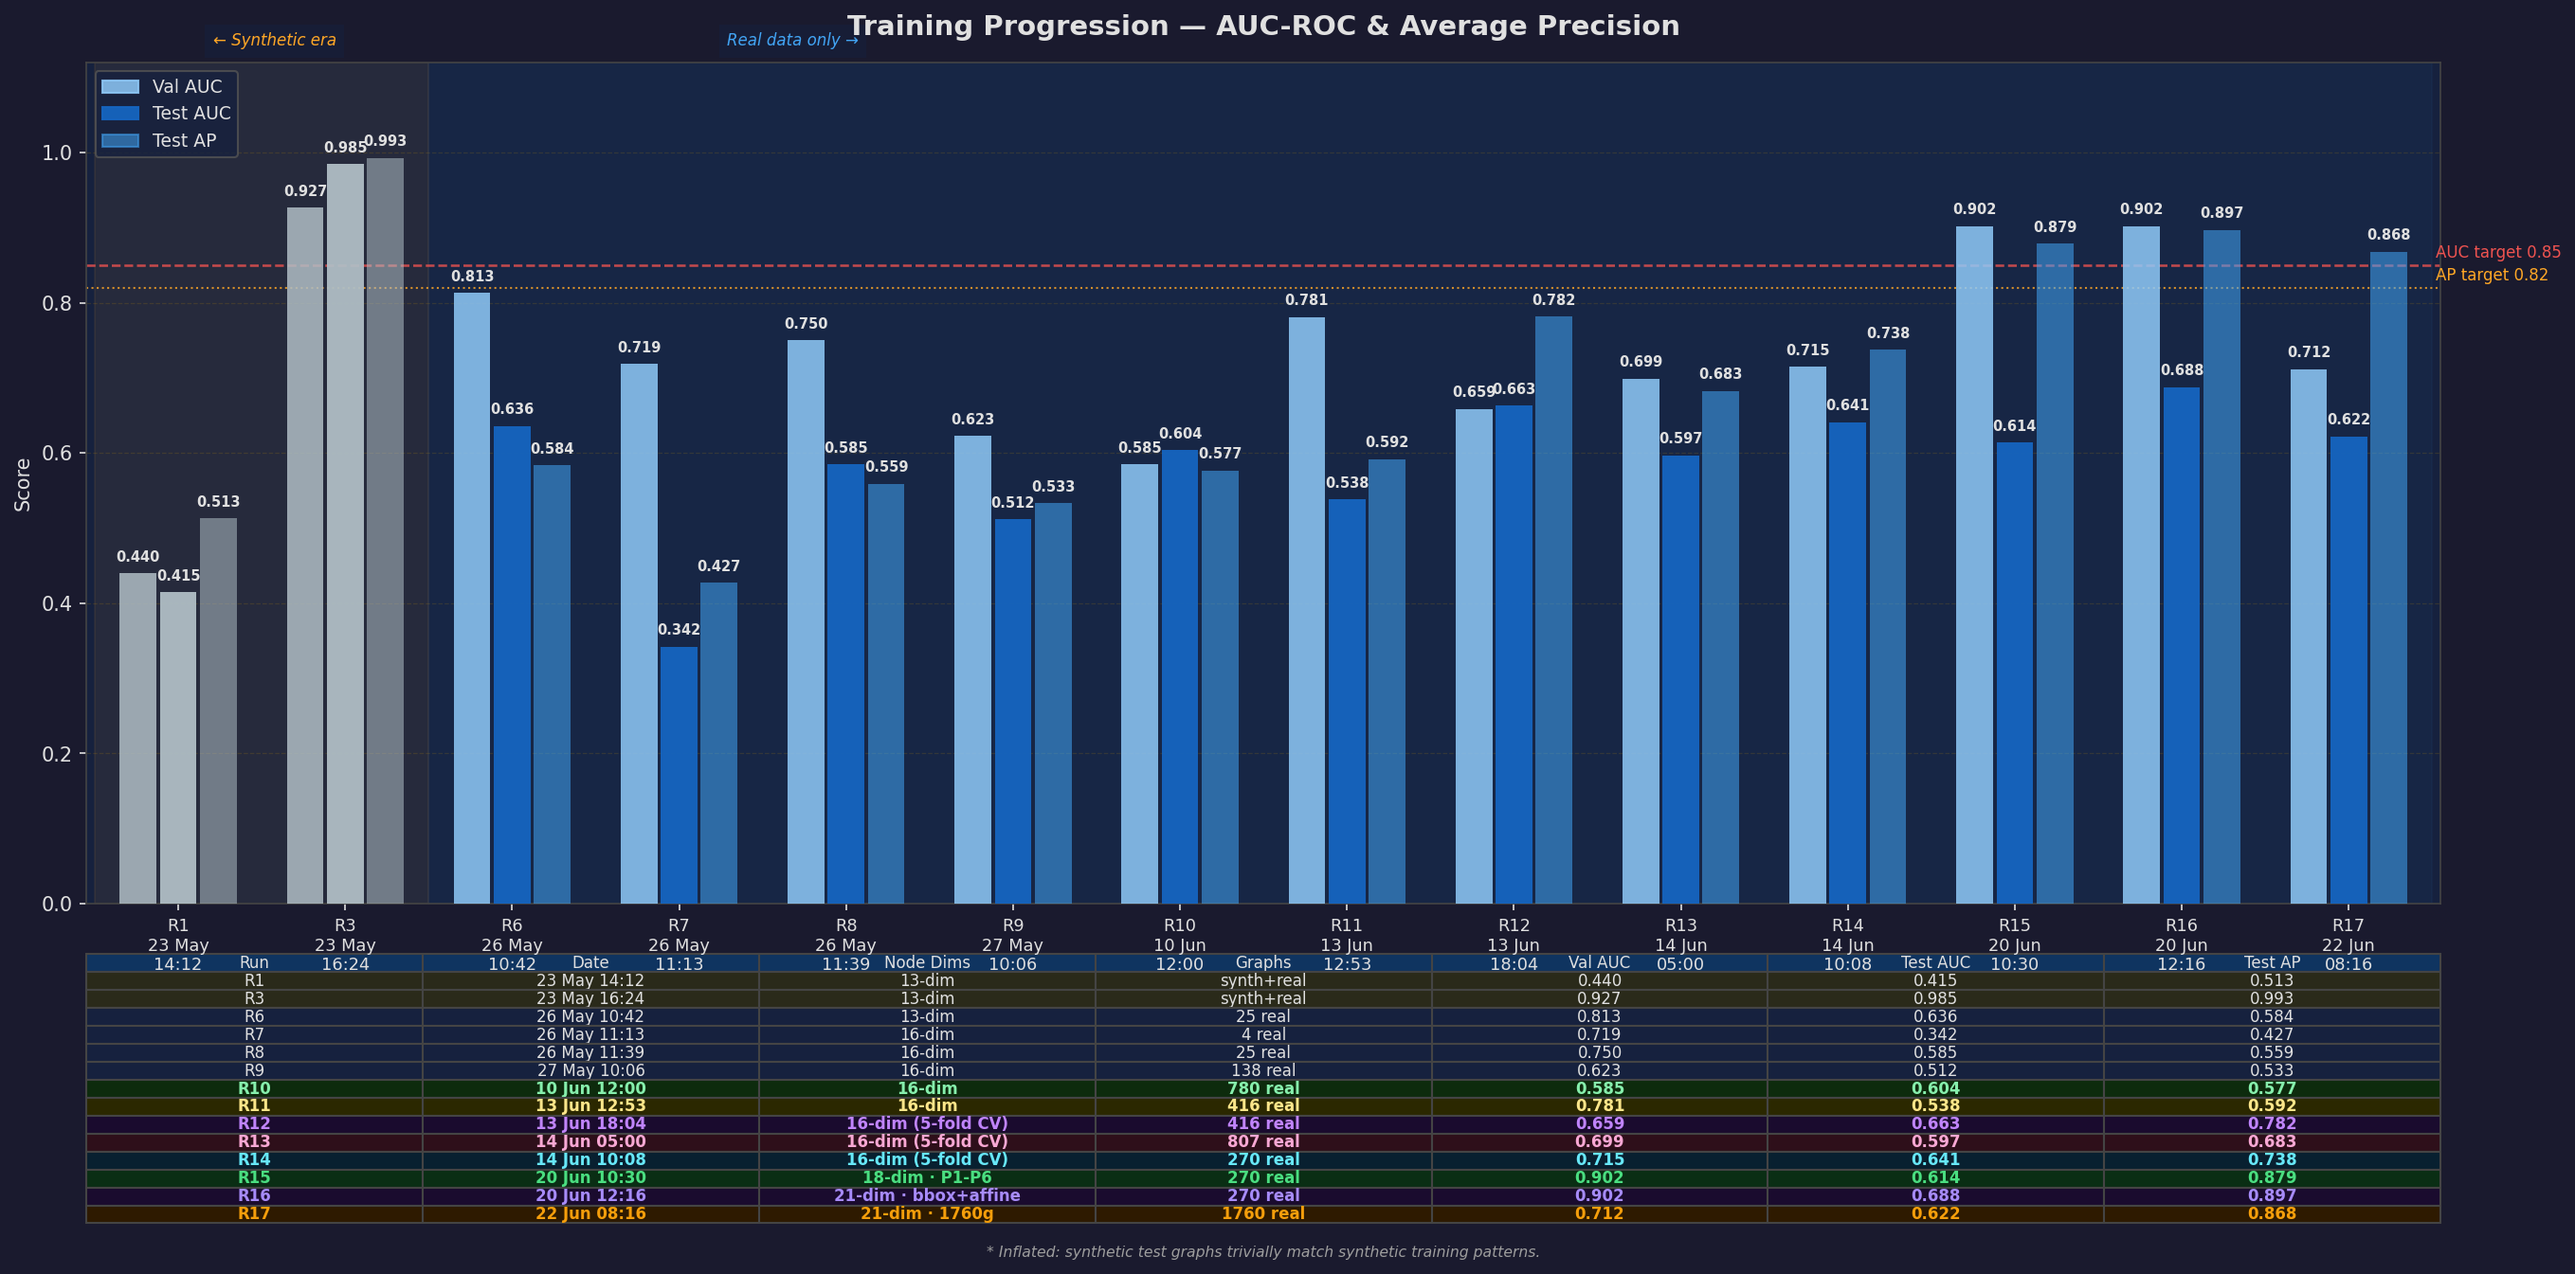
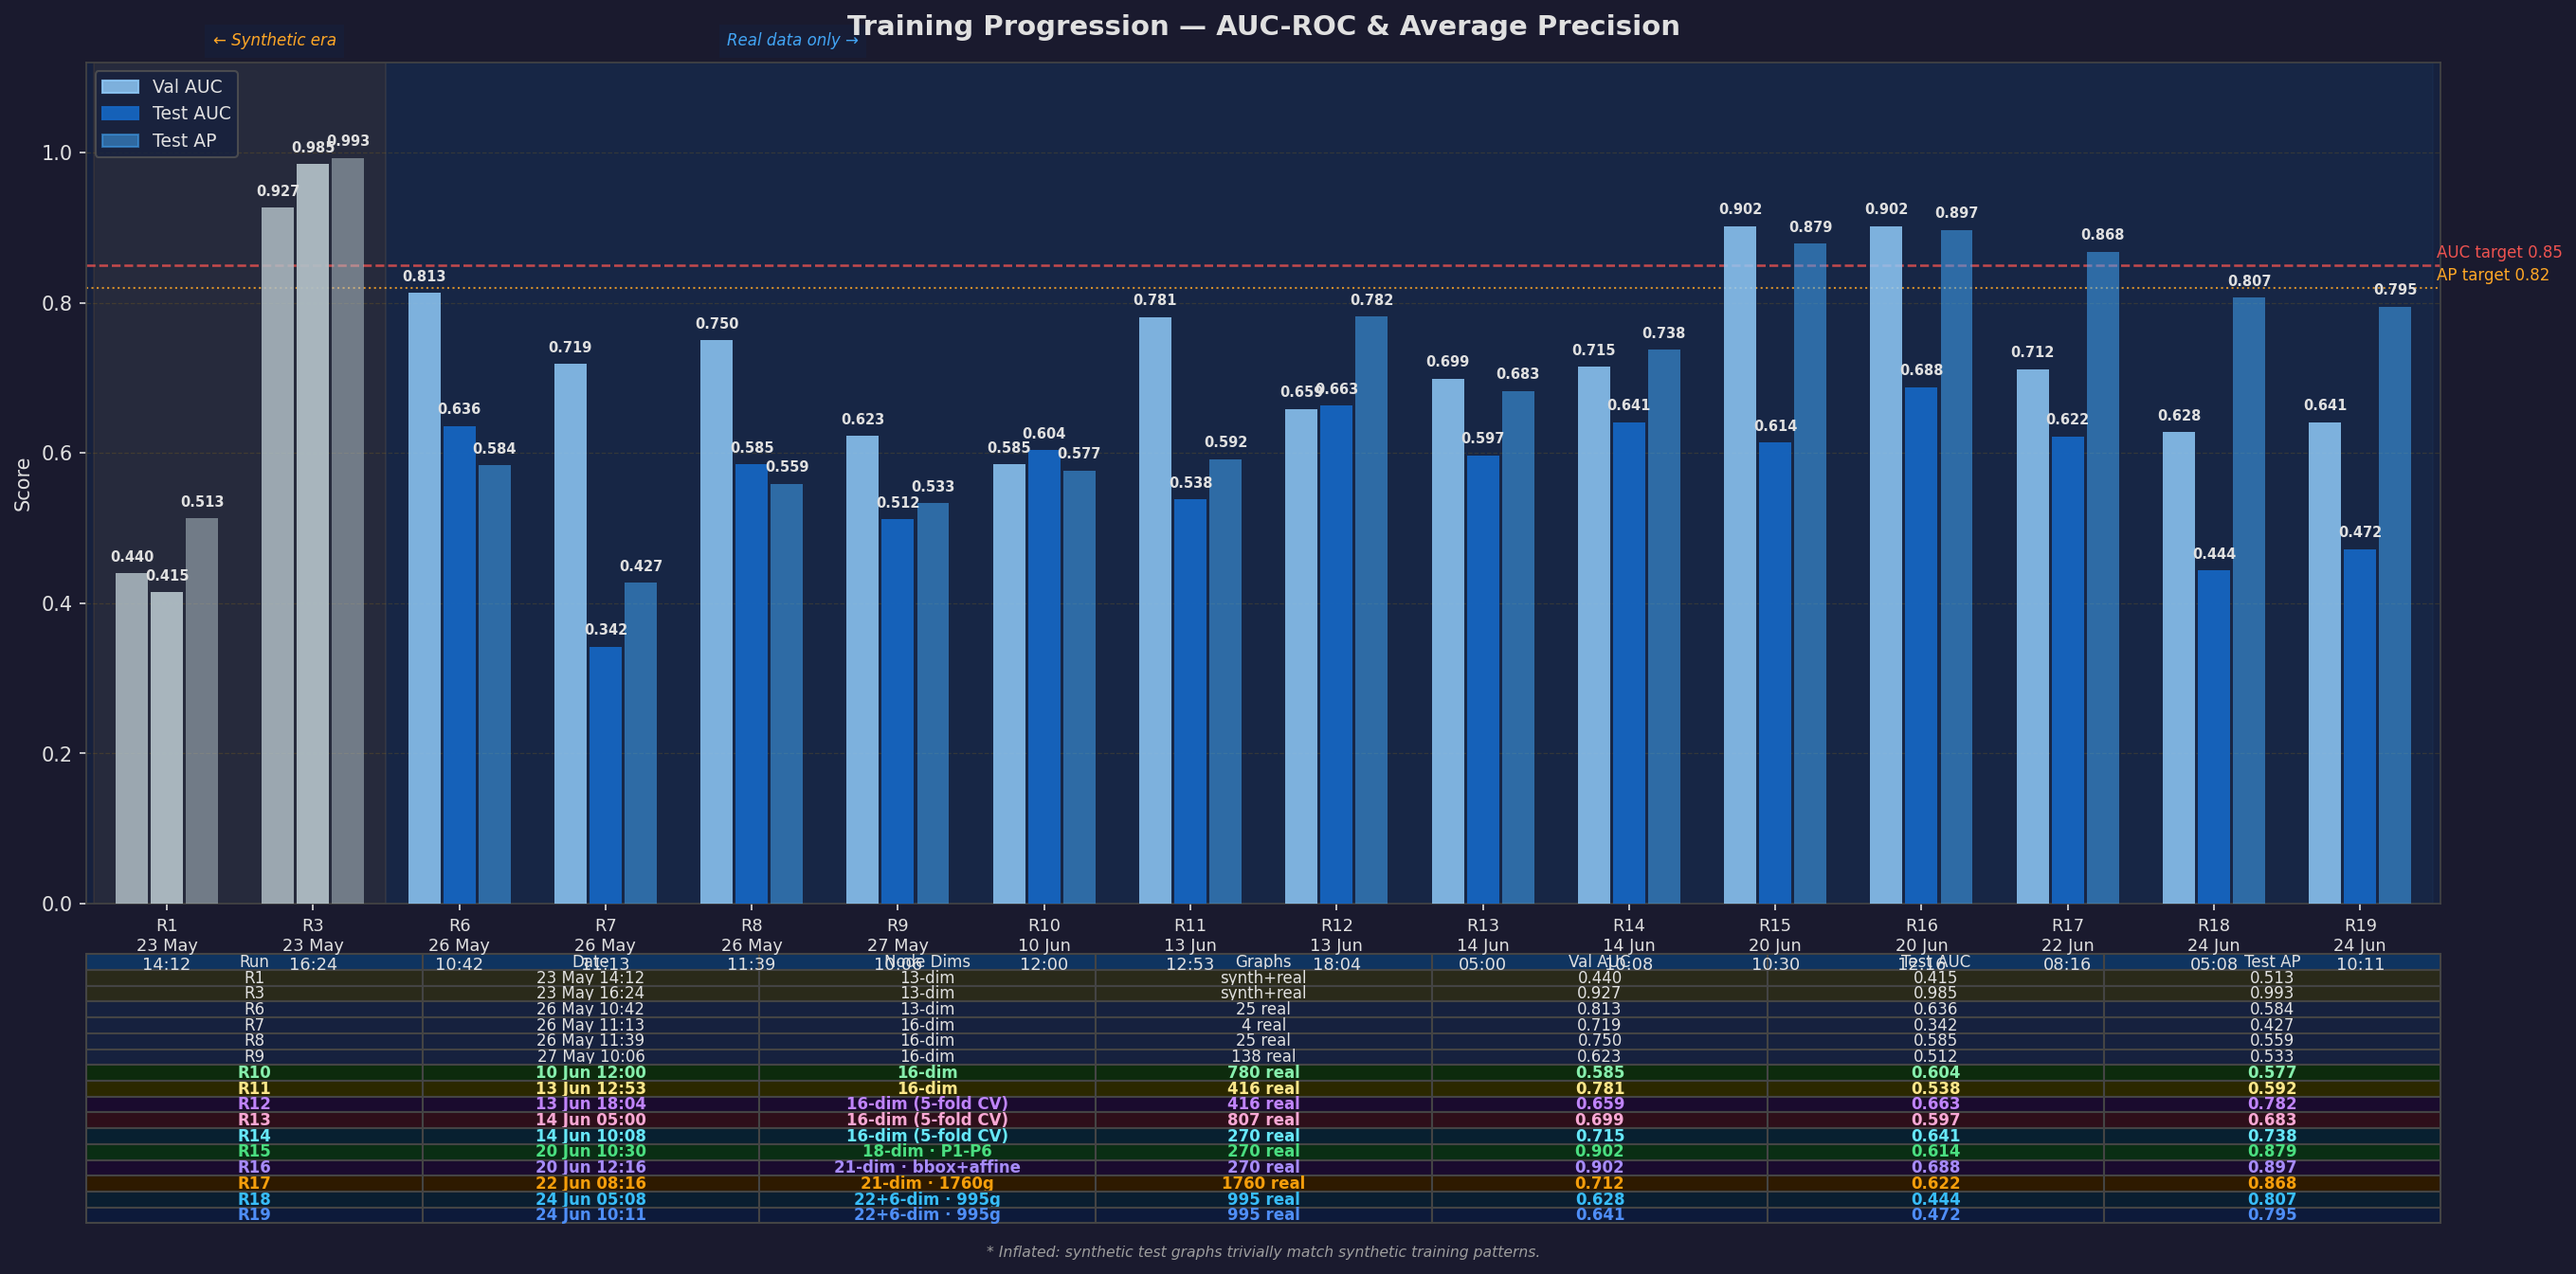
Update training history visuals with R18 and R19 results
- Regenerate training_history.png bar chart with R18+R19 bars
- Regenerate training_changelog.png with R18+R19 entries
- Add R18/R19 data, colors, and table styling to generator script
- Update README changelog image caption (R17→R19)

diff --git a/docs/generate_training_history.py b/docs/generate_training_history.py
@@ -53,6 +53,12 @@ runs = [
     dict(id="R17", date="22 Jun\n08:16", graphs="1760 real",
          note="6.5× more data: 1,760 graphs (was 270)\nDeduped 144 cross-cat folders · no-contact pre-filter\nhidden_dim 128 · edges≥10 filter\n5-Fold CV · Mean AUC=0.625±0.017 · Mean AP=0.878±0.005",
          val_auc=0.712, test_auc=0.622, test_ap=0.868, synthetic=False),
+    dict(id="R18", date="24 Jun\n05:08", graphs="995 real",
+         note="22-dim nodes + 6-dim edges · curated 996→995\nlog1p vol/SA · holes · joint types · MIN_EDGES 10→6\nZero parse failures · dataset curation study\n5-Fold CV · Mean AUC=0.483±0.056 · Mean AP=0.833±0.025",
+         val_auc=0.628, test_auc=0.444, test_ap=0.807, synthetic=False),
+    dict(id="R19", date="24 Jun\n10:11", graphs="995 real",
+         note="best_serving.pt promotion gate added\ndevice bug fix for --start-fold resume\nOnly better models deployed for inference\n5-Fold CV · Mean AUC=0.504±0.069 · Mean AP=0.835±0.028",
+         val_auc=0.641, test_auc=0.472, test_ap=0.795, synthetic=False),
 ]
 
 n   = len(runs)
@@ -77,6 +83,7 @@ log_colors = {
     "R7": "#ef9a9a", "R8": "#80cbc4", "R9": "#ce93d8",
     "R10": "#86efac", "R11": "#fde68a", "R12": "#c084fc", "R13": "#f9a8d4", "R14": "#67e8f9",
     "R15": "#4ade80", "R16": "#a78bfa", "R17": "#f59e0b",
+    "R18": "#38bdf8", "R19": "#4f8ef7",
 }
 
 # ═════════════════════════════════════════════════════════════════════════════
@@ -143,7 +150,7 @@ ax.legend(handles=legend_patches, loc="upper left", facecolor=PANEL,
 col_labels = ["Run", "Date", "Node Dims", "Graphs", "Val AUC", "Test AUC", "Test AP"]
 table_data = [
     [r["id"], r["date"].replace("\n", " "),
-     "13-dim" if r["id"] in ("R1","R3","R6") else "21-dim · 1760g" if r["id"] == "R17" else "21-dim · bbox+affine" if r["id"] == "R16" else "18-dim · P1-P6" if r["id"] == "R15" else "16-dim (5-fold CV)" if r["id"] in ("R12","R13","R14") else "16-dim",
+     "22+6-dim · 995g" if r["id"] in ("R18","R19") else "13-dim" if r["id"] in ("R1","R3","R6") else "21-dim · 1760g" if r["id"] == "R17" else "21-dim · bbox+affine" if r["id"] == "R16" else "18-dim · P1-P6" if r["id"] == "R15" else "16-dim (5-fold CV)" if r["id"] in ("R12","R13","R14") else "16-dim",
      r["graphs"],
      f"{r['val_auc']:.3f}", f"{r['test_auc']:.3f}", f"{r['test_ap']:.3f}"]
     for r in runs
@@ -183,6 +190,12 @@ for (row, col), cell in tbl.get_celld().items():
     if row > 0 and runs[row-1]["id"] == "R17":
         cell.set_facecolor("#2e1a00")
         cell.set_text_props(color="#f59e0b", fontweight="bold")
+    if row > 0 and runs[row-1]["id"] == "R18":
+        cell.set_facecolor("#0a1e30")
+        cell.set_text_props(color="#38bdf8", fontweight="bold")
+    if row > 0 and runs[row-1]["id"] == "R19":
+        cell.set_facecolor("#0d1a3a")
+        cell.set_text_props(color="#4f8ef7", fontweight="bold")
 
 ax.text(0.5, -0.42, "* Inflated: synthetic test graphs trivially match synthetic training patterns.",
         transform=ax.transAxes, ha="center", color=SUBTEXT, fontsize=7.5, style="italic")
@@ -203,7 +216,7 @@ fig2 = plt.figure(figsize=(18, fig_h), facecolor=BG)
 ax2 = fig2.add_axes([0.02, 0.02, 0.96, 0.96], facecolor=PANEL)
 ax2.axis("off")
 
-ax2.text(0.5, 0.99, "Change Log — R1 to R17", transform=ax2.transAxes,
+ax2.text(0.5, 0.99, "Change Log — R1 to R19", transform=ax2.transAxes,
          ha="center", va="top", color=TEXT, fontsize=14, fontweight="bold")
 
 # Two-column layout: runs split left/right

diff --git a/README.md b/README.md
@@ -1095,7 +1095,7 @@ All previous output — red ⚠ body highlights, orange ❓ cross markers, AIDA 
 
 Nineteen training runs are shown, split into two eras. Each bar group shows Val AUC (light), Test AUC (solid), and Test AP (translucent) for that run. Dashed red/orange lines are the Phase 1 targets (AUC 0.85, AP 0.82). R12–R19 report best-fold metrics from 5-fold CV.
 
-![Change Log — R1 to R17](docs/training_changelog.png)
+![Change Log — R1 to R19](docs/training_changelog.png)
 
 | Run | Date | Change | Graphs | Val AUC | Test AUC | Test AP |
 |---|---|---|---|---|---|---|
